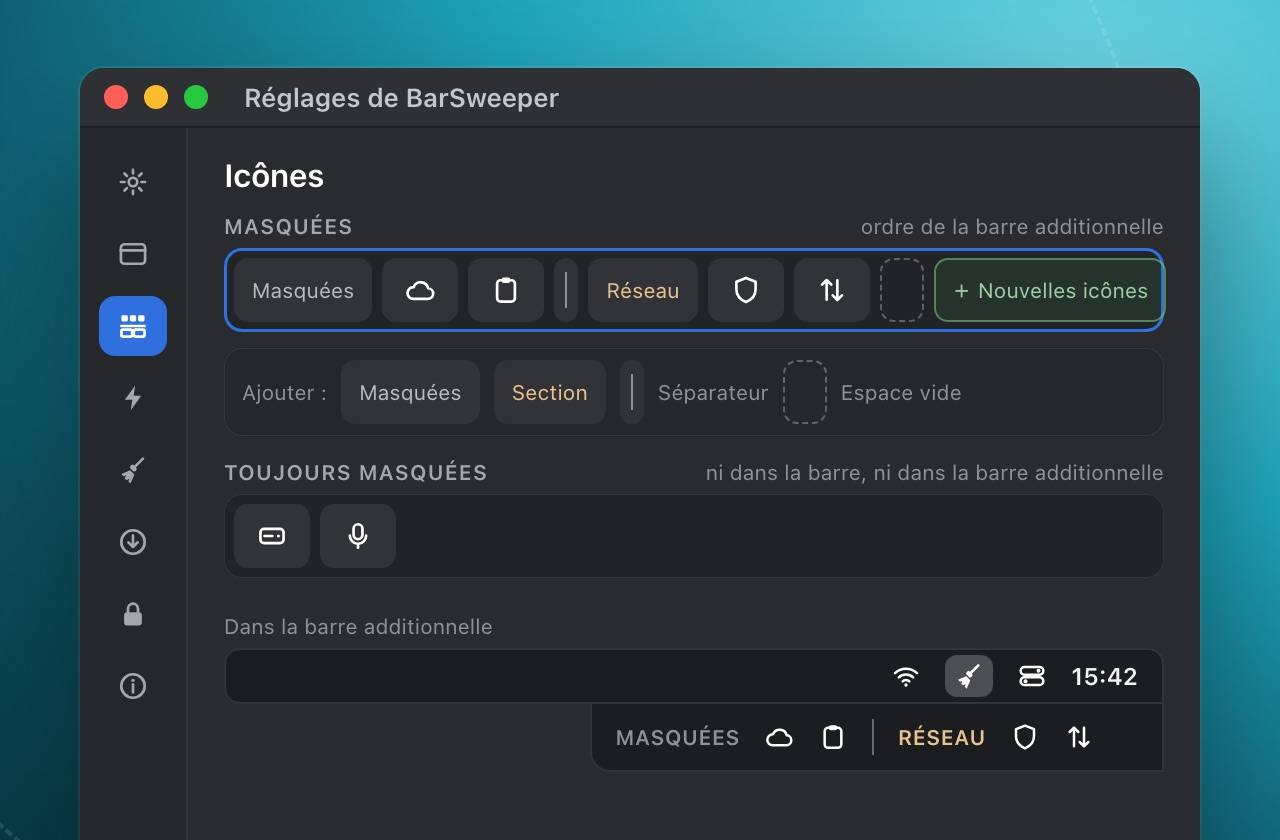
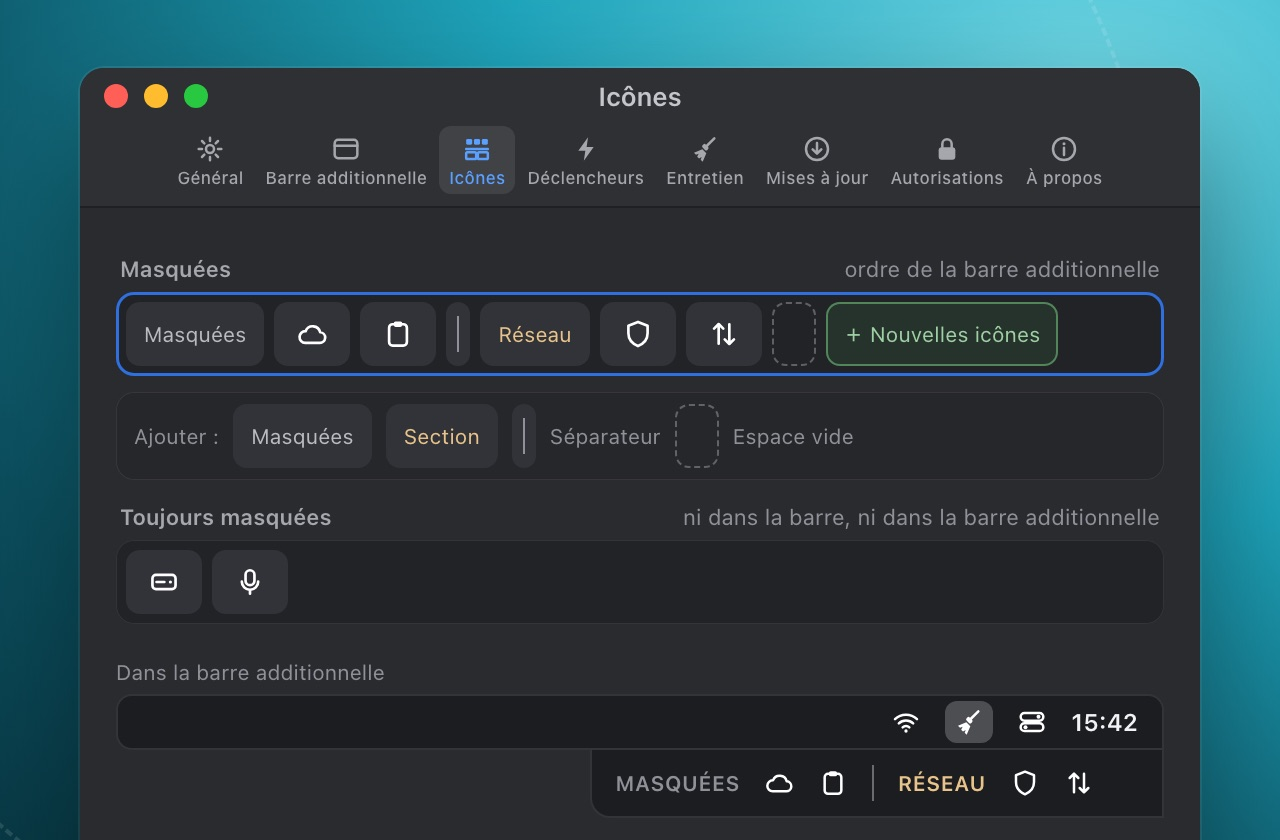
Pages des apps : nouveaux réglages
Visuels refaits sur la nouvelle fenêtre de réglages (barre d'outils en haut,
lignes groupées, mini-interrupteurs) : ProximityLock (Verrouillage, Objet
suivi, Lieux), ClaudeUsage (Affichage, Notifications, Mises à jour),
ClipKeeper (Filtres, Mots de passe), BarSweeper (Icônes, Encoche,
Déclencheurs). Textes : le thème, le graphe du signal de ProximityLock,
« hors de portée », « Désactivez » au lieu de « Décochez ».

diff --git a/barsweeper/index.html b/barsweeper/index.html
@@ -46,7 +46,7 @@
 <h2 id="ce-qu-il-sait-faire">Ce qu&#x27;il sait faire</h2>
 <div class="atouts"><div class="atout"><img loading="lazy" src="images/atout-formes.jpg" alt="Trois formes de barre additionnelle"><br><b>Une barre additionnelle à votre goût</b><br>Collée sous la barre, en bande flottante ou en panneau avec le nom des applis. Elle s'ouvre au clic, au survol ou par un raccourci, et se referme seule si vous le souhaitez. Plusieurs styles : comme la barre des menus, verre, couleur unie…</div><div class="atout"><img loading="lazy" src="images/atout-encoche.jpg" alt="Volet Icônes avec l'écran à encoche réglé à part"><br><b>L'écran à encoche réglé à part</b><br>Sur un MacBook, gardez moins d'icônes à droite de l'encoche et toutes les autres sur votre écran externe. Une jauge mesure la place qui reste. BarSweeper applique le bon jeu quand vous changez d'écran.</div><div class="atout"><img loading="lazy" src="images/atout-declencheurs.jpg" alt="Volet Déclencheurs"><br><b>Des icônes qui reviennent au bon moment</b><br>Une icône masquée revient dans la barre selon la batterie, l'heure, le réseau Wi-Fi ou le lieu, puis repart quand la condition cesse. Plusieurs conditions peuvent se combiner.</div><div class="atout"><img loading="lazy" src="images/atout-rangement.jpg" alt="Volet Icônes : sections, séparateurs, nouvelles icônes"><br><b>Rangé comme vous l'entendez</b><br>Glissez les icônes entre « Visibles », « Masquées » et « Toujours masquées ». Ajoutez des sections, des séparateurs, des espaces. Les nouvelles icônes peuvent se ranger d'office avec les masquées.</div></div>
 <p>Et aussi :</p>
-<ul><li>les icônes de macOS : modules du Centre de contrôle, Time Machine, Siri, Saisie de texte… ;</li><li>l'ordre des icônes visibles se change par glisser-déposer, en direct dans la vraie barre ;</li><li>plusieurs écrans, ouverture à la session, icône du balai au choix (ou votre propre image) ;</li><li>un volet Entretien pour retirer les entrées périmées de « Autoriser dans la barre des menus » ;</li><li>quand vous quittez BarSweeper, chaque icône retrouve l'état où il l'avait trouvée.</li></ul>
+<ul><li>les icônes de macOS : modules du Centre de contrôle, Time Machine, Siri, Saisie de texte… ;</li><li>l'ordre des icônes visibles se change par glisser-déposer, en direct dans la vraie barre ;</li><li>plusieurs écrans, ouverture à la session, icône du balai au choix (ou votre propre image) ;</li><li>un thème clair, sombre ou celui du système pour les réglages (la barre additionnelle suit toujours la barre des menus) ;</li><li>un volet Entretien pour retirer les entrées périmées de « Autoriser dans la barre des menus » ;</li><li>quand vous quittez BarSweeper, chaque icône retrouve l'état où il l'avait trouvée.</li></ul>
 <h2 id="installer">Installer</h2>
 <ol><li>Téléchargez <code>BarSweeper-&lt;version&gt;.dmg</code> dans les <a href="https://github.com/NoktuaLabs/BarSweeper-releases/releases/latest">Releases</a>.</li><li>Ouvrez-le et glissez <b>BarSweeper</b> dans le dossier <b>Applications</b>.</li><li>Au premier lancement, macOS refuse d'ouvrir l'app, car elle ne vient pas de l'App Store. Allez dans <b>Réglages Système → Confidentialité et sécurité</b>, puis cliquez sur <b>Ouvrir quand même</b>.</li><li>BarSweeper vous guide à travers ses quatre autorisations :<ul><li><b>Accessibilité</b> : lire la barre des menus et cliquer sur les icônes ;</li><li><b>Enregistrement d'écran</b> : photographier les icônes pour la barre additionnelle ;</li><li><b>Visibilité des icônes</b> : le fichier de macOS qui affiche ou masque les icônes (<code>group.com.apple.controlcenter.plist</code>), que vous choisissez une fois dans une fenêtre d'ouverture ;</li><li><b>Position des icônes</b> : le fichier qui règle leur place (<code>com.apple.MenuBar.plist</code>), choisi de la même façon.</li></ul></li></ol>
 <h2 id="configuration-requise">Configuration requise</h2>

diff --git a/proximitylock/index.html b/proximitylock/index.html
@@ -43,7 +43,8 @@
 <img class="etapes" loading="lazy" src="images/etapes.jpg" alt="1. Vous êtes à votre poste — 2. Vous vous éloignez — 3. Le Mac se verrouille">
 <p>ProximityLock mesure en continu le signal Bluetooth d'un objet que vous gardez sur vous. Quand il faiblit, vous vous êtes éloigné : un avertissement, puis la session se verrouille. Pas de compte, pas de serveur : tout se passe sur votre Mac.</p>
 <h2 id="ce-qu-il-sait-faire">Ce qu&#x27;il sait faire</h2>
-<div class="atouts"><div class="atout"><img loading="lazy" src="images/atout-verrouillage.jpg" alt="Réglages du verrouillage"><br><b>Réglé à votre bureau</b><br>Trois zones — arrivée, limite de portée, verrouillage — que vous placez d'un glissement. Après une semaine, ProximityLock vous suggère les seuils qui collent à vos habitudes.</div><div class="atout"><img loading="lazy" src="images/atout-lieux.jpg" alt="Lieux de confiance"><br><b>Lieux de confiance</b><br>À la maison, la surveillance se met en pause toute seule : le lieu est reconnu à votre réseau Wi-Fi, à votre adresse, ou aux deux.</div><div class="atout"><img loading="lazy" src="images/atout-objet.jpg" alt="Objet suivi"><br><b>Avec l'objet de votre choix</b><br>Apple Watch, iPhone, AirPods… n'importe quel objet Bluetooth que vous emportez avec vous. Avec l'Apple Watch, la surveillance démarre dès le déverrouillage par la montre.</div><div class="atout"><img loading="lazy" src="images/atout-android.jpg" alt="Jumelage d'un téléphone Android"><br><b>Aussi avec un téléphone Android</b><br>Le compagnon Android émet un code qui change toutes les 30 secondes : impossible de l'imiter en le copiant. Le jumelage se fait en scannant un QR code.</div></div>
+<div class="atouts"><div class="atout"><img loading="lazy" src="images/atout-verrouillage.jpg" alt="Réglages du verrouillage"><br><b>Réglé à votre bureau</b><br>Trois zones — arrivée, limite de portée, hors de portée — que vous placez d'un glissement. Après une semaine, ProximityLock vous suggère les seuils qui collent à vos habitudes.</div><div class="atout"><img loading="lazy" src="images/atout-lieux.jpg" alt="Lieux de confiance"><br><b>Lieux de confiance</b><br>À la maison, la surveillance se met en pause toute seule : le lieu est reconnu à votre réseau Wi-Fi, à votre adresse, ou aux deux.</div><div class="atout"><img loading="lazy" src="images/atout-objet.jpg" alt="Objet suivi"><br><b>Avec l'objet de votre choix</b><br>Apple Watch, iPhone, AirPods… n'importe quel objet Bluetooth que vous emportez avec vous. Avec l'Apple Watch, la surveillance démarre dès le déverrouillage par la montre.</div><div class="atout"><img loading="lazy" src="images/atout-android.jpg" alt="Jumelage d'un téléphone Android"><br><b>Aussi avec un téléphone Android</b><br>Le compagnon Android émet un code qui change toutes les 30 secondes : impossible de l'imiter en le copiant. Le jumelage se fait en scannant un QR code.</div></div>
+<p>Et aussi : le graphe du signal des deux dernières minutes (Réglages → Verrouillage, et dans le panneau si vous le souhaitez), et un thème clair, sombre ou celui du système.</p>
 <h2 id="installer">Installer</h2>
 <ol><li>Téléchargez <code>ProximityLock-&lt;version&gt;.dmg</code> dans la <a href="https://github.com/NoktuaLabs/ProximityLock-releases/releases/latest">dernière version</a>, ouvrez-le et glissez <b>ProximityLock</b> dans <b>Applications</b>.</li><li>Au premier lancement, macOS demande une confirmation : <b>Réglages Système → Confidentialité et sécurité → Ouvrir quand même</b>.</li><li>L'assistant vous guide : autorisation Bluetooth, objet à suivre, ouverture à la session.</li></ol>
 <h2 id="compagnon-android">Compagnon Android</h2>

diff --git a/claudeusage/index.html b/claudeusage/index.html
@@ -45,7 +45,7 @@
 <p>ClaudeUsage relève votre quota auprès d'Anthropic à l'intervalle de votre choix et l'affiche en permanence dans la barre de menus. Un clic sur la jauge ouvre le détail : les deux fenêtres, l'heure de leur remise à zéro, l'état des services Claude et votre consommation Claude Code sur ce Mac.</p>
 <h2 id="ce-qu-elle-sait-faire">Ce qu&#x27;elle sait faire</h2>
 <div class="atouts"><div class="atout"><img loading="lazy" src="images/atout-affichage.jpg" alt="Réglages d'affichage"><br><b>À votre façon dans la barre</b><br>Jauge, pourcentage ou les deux, avec ou sans la semaine. Deux jeux de couleurs, un pour la barre claire, un pour la barre sombre.</div><div class="atout"><img loading="lazy" src="images/atout-notifications.jpg" alt="Réglages des notifications"><br><b>Prévenu à temps</b><br>Une alerte avant d'épuiser une fenêtre, au seuil que vous choisissez. Une autre en cas d'incident ou de maintenance annoncée sur les services Claude.</div><div class="atout"><img loading="lazy" src="images/atout-jeton.jpg" alt="Connexion du compte"><br><b>Votre jeton reste chez vous</b><br>Vous le créez vous-même avec Claude Code. Il est rangé dans le trousseau de ce Mac et ne sert qu'à interroger l'API d'Anthropic.</div><div class="atout"><img loading="lazy" src="images/atout-mises-a-jour.jpg" alt="Réglages des mises à jour"><br><b>Des mises à jour contrôlées</b><br>L'app vous propose chaque nouvelle version avec sa note, et vérifie sa signature avant de l'installer.</div></div>
-<p>Et aussi : la consommation locale de <b>Claude Code</b>, par modèle et par projet, lue sur votre Mac.</p>
+<p>Et aussi : la consommation locale de <b>Claude Code</b>, par modèle et par projet, lue sur votre Mac, et un thème clair, sombre ou celui du système.</p>
 <h2 id="installer">Installer</h2>
 <ol><li>Téléchargez <code>ClaudeUsage-&lt;version&gt;.dmg</code> depuis la <a href="https://github.com/NoktuaLabs/ClaudeUsage-releases/releases/latest">dernière version</a>.</li><li>Ouvrez-le et glissez <b>ClaudeUsage</b> dans le dossier <b>Applications</b>.</li><li>Au premier lancement, macOS refuse d'ouvrir l'app : allez dans <b>Réglages Système → Confidentialité et sécurité</b>, puis cliquez sur <b>Ouvrir quand même</b>.</li><li>L'assistant de démarrage vous guide : la connexion de votre compte, les notifications, et deux réglages.</li></ol>
 <p>Il vous faut un <b>abonnement Claude</b> et <b>Claude Code</b> installé sur ce Mac : le jeton de connexion se crée avec <code>claude setup-token</code>, qui exige un abonnement.</p>

diff --git a/clipkeeper/index.html b/clipkeeper/index.html
@@ -70,7 +70,7 @@
 <summary><b>Comment mes mots de passe sont-ils protégés ?</b></summary>
 <p>ClipKeeper reconnaît un mot de passe à la marque que posent 1Password et la plupart des gestionnaires, ou à l'app d'où il vient (Mots de passe, Trousseau d'accès).</p>
 <ul><li>Il est chiffré (AES-256) avant d'être rangé. La clé est dans le trousseau de votre Mac, pas avec l'historique.</li><li>Dans la liste, il est masqué : seize points, sans révéler sa longueur. Il s'affiche en clair quand vous passez la souris dessus.</li><li>Il n'apparaît jamais dans l'aperçu, et la recherche ne lit pas son contenu.</li><li>Si macOS doit redemander l'accès au trousseau, ClipKeeper vous le dit d'abord sur un écran à lui : pas de fenêtre système par surprise.</li></ul>
-<p>Vous préférez ne pas les garder ? Décochez <b>Garder les mots de passe copiés</b> (Préférences → Filtres). Les mots de passe déjà gardés et leur clé sont alors effacés, après confirmation. </p>
+<p>Vous préférez ne pas les garder ? Désactivez <b>Garder les mots de passe copiés</b> (Préférences → Filtres). Les mots de passe déjà gardés et leur clé sont alors effacés, après confirmation. </p>
 </details>
 <details>
 <summary><b>Pourquoi l'autorisation Accessibilité ?</b></summary>
